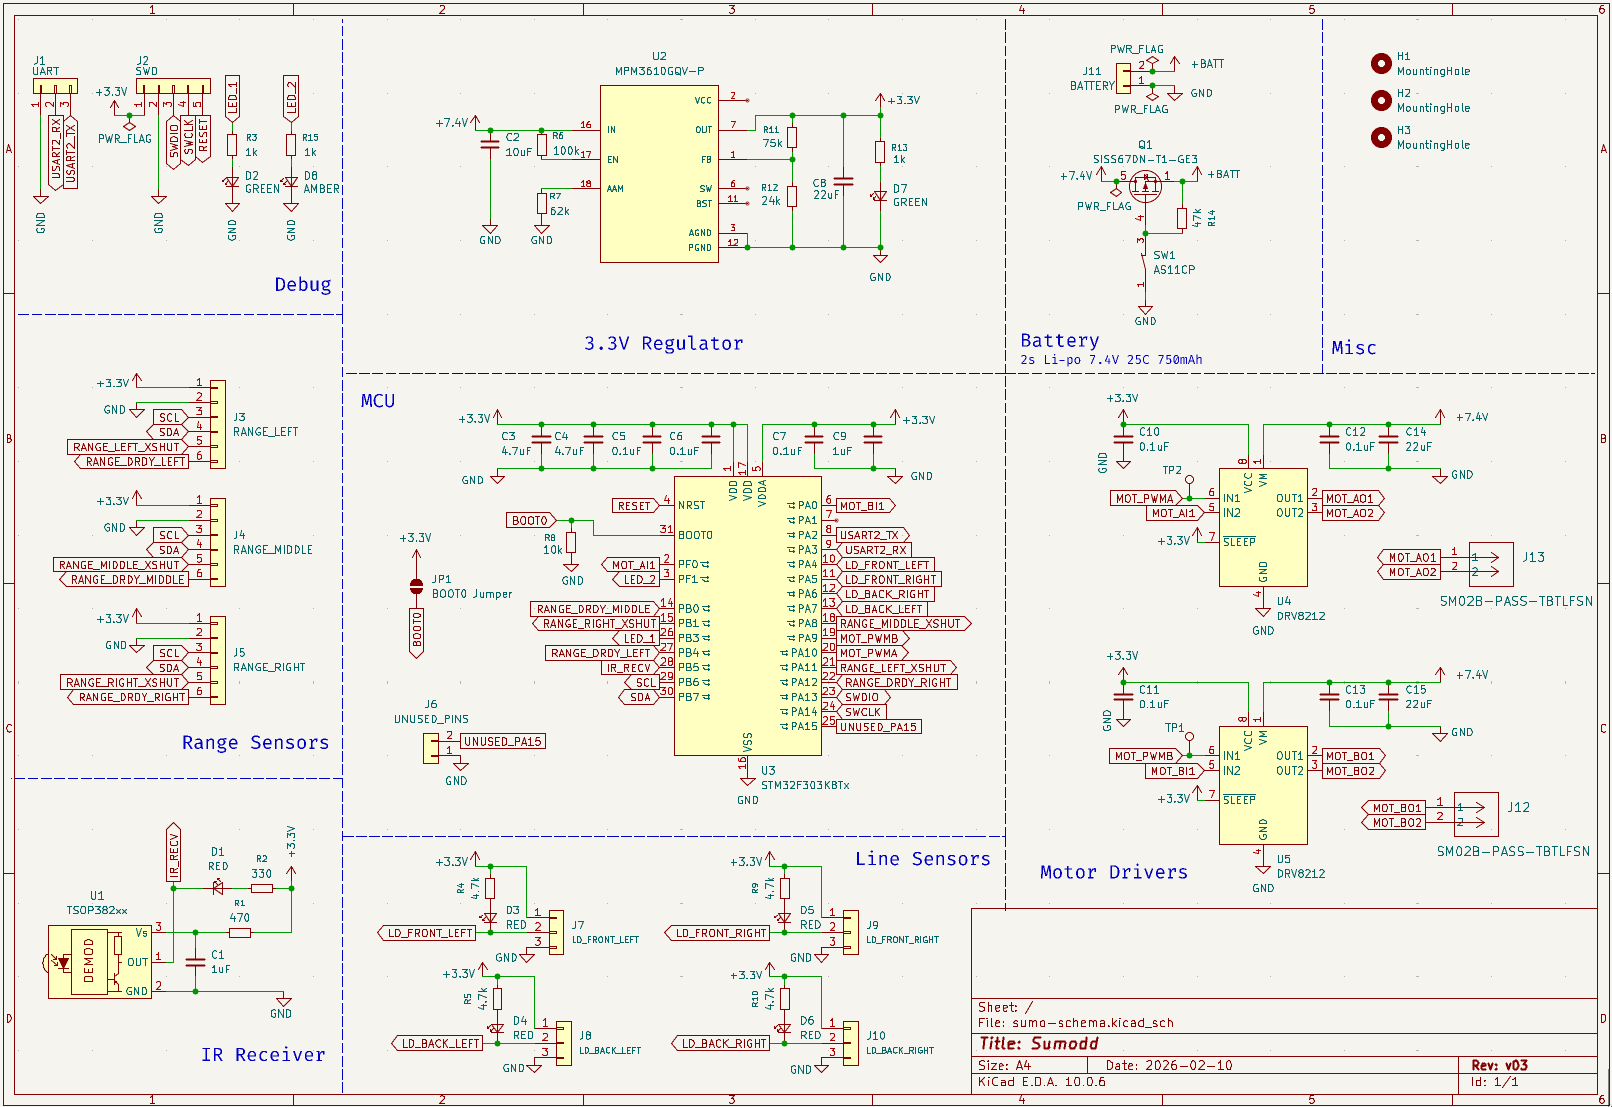
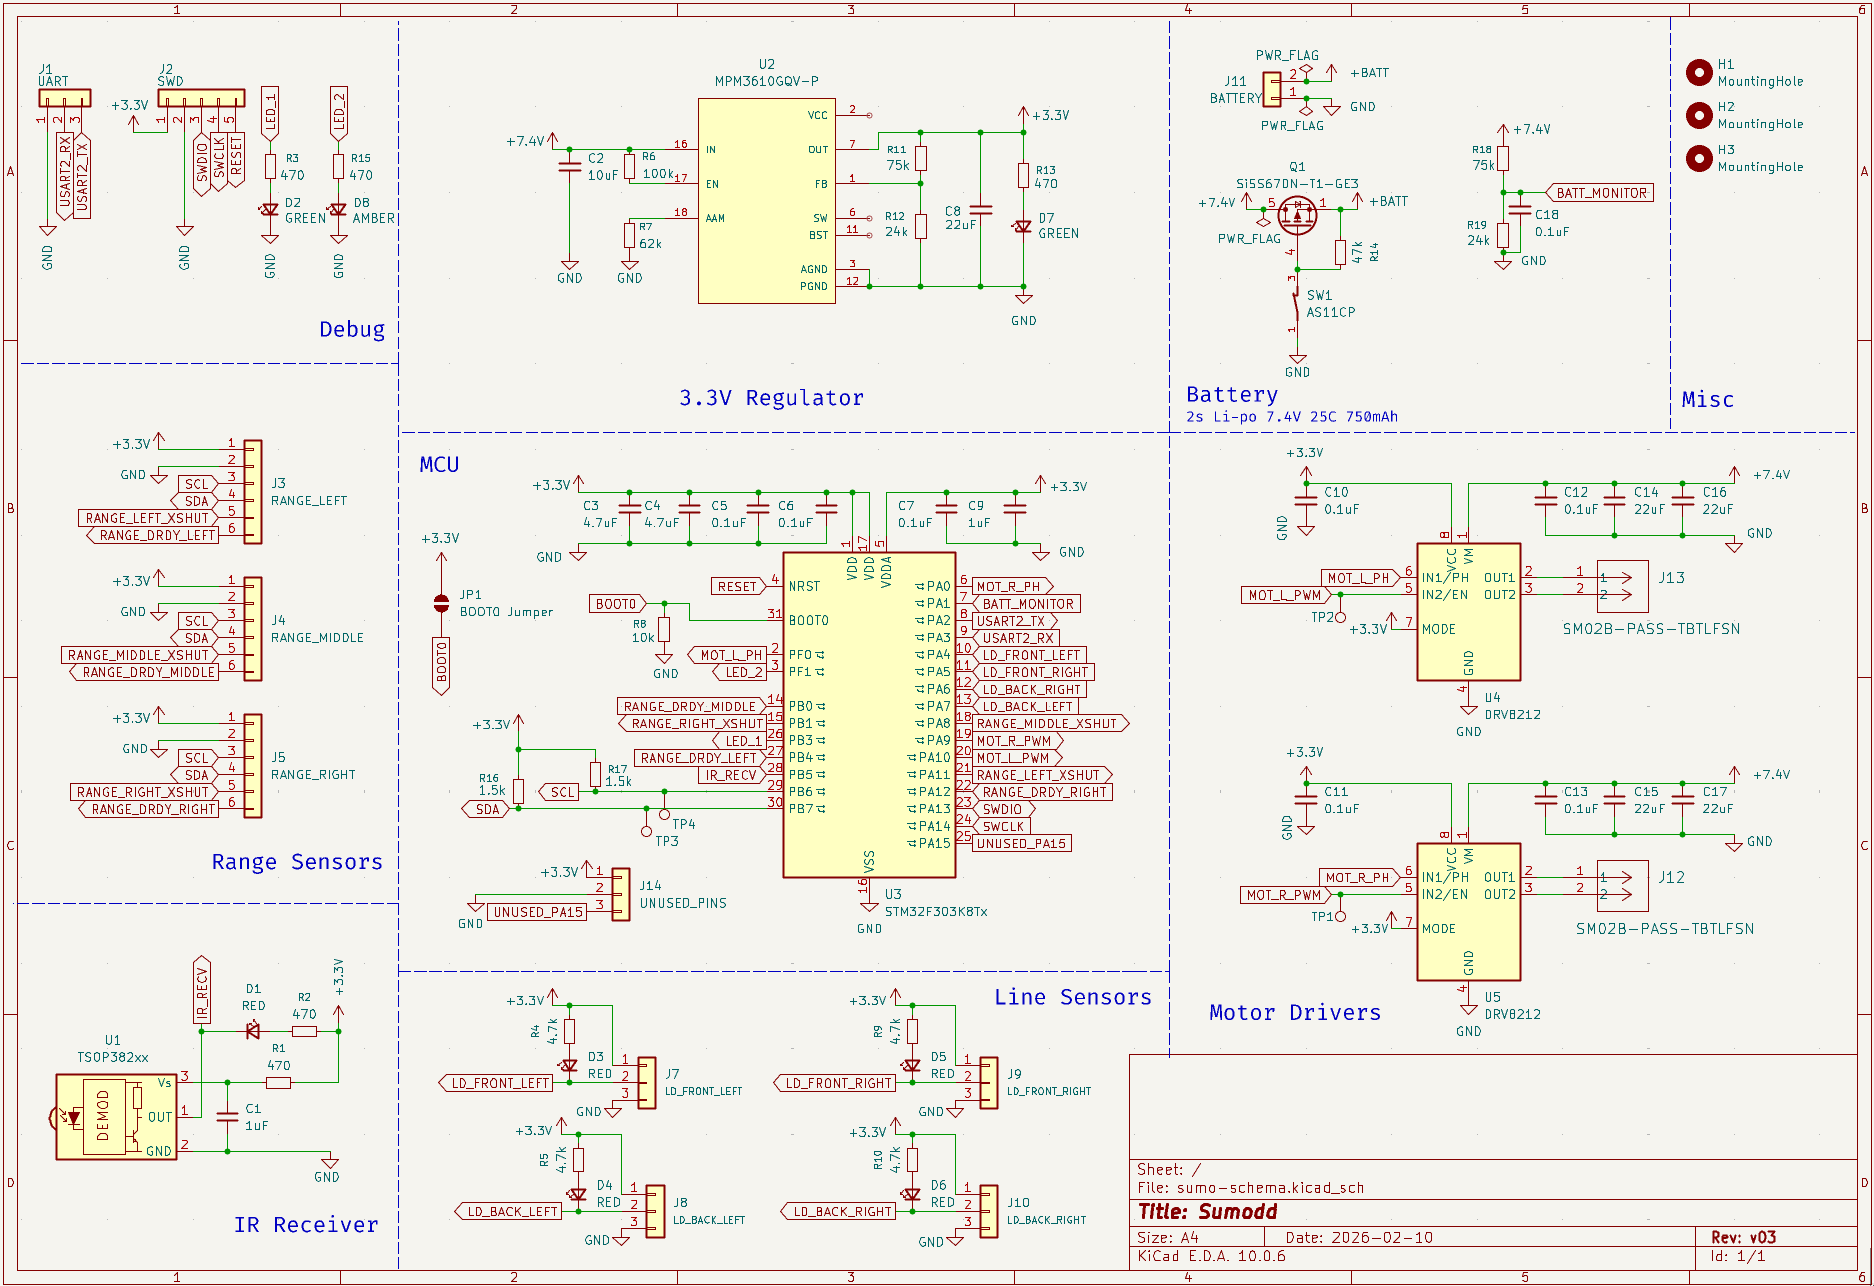
docs: update documentation with v0.3 parts and schematic image

diff --git a/README.md b/README.md
@@ -5,9 +5,10 @@ This repository holds the schematic and PCB layout files for the
 for the layout of the various components.
 
 When a new iteration of the PCB is manufactured, the latest included commit is tagged with a
-version number, e.g. `v0.2`.
+version number, e.g. `v0.3`. All parts are specified with Digikey part numbers, in the symbols
+`Part number` field.
 
-![Sumodd motherboard schematic](sumodd-schematic-v02.png)
+![Sumodd motherboard schematic](sumodd-schematic-v03.png)
 
 ## PCB stackup
 
@@ -18,15 +19,20 @@ The board has four copper layers, with a total thickness of 1.6mm.
 3. In2.Cu — 3.3V power plane
 4. B.Cu — signal routing overflow
 
-## Power
+# Power
 
 The PCB is powered by a 2s 7.4V, 25C, 800 mAh LIPO battery. This voltage is fed to a MOSFET
 transistor source, the gate of which is controlled by a SPST switch that connects the gate to 
 ground when closed, and a pullup resistor that connects the gate to source when opened. The
 transistor drain feeds a 7.4V power rail on the top layer, which connects directly to the motor
-driver VM input. However, the MCU and other components want a stable 3.3V, so we use a
-MPM3610AGQV-P buck converter configured to step down the battery input voltage, to feed the 3.3V
-power plane on the third layer.
+driver VM input.
+
+The MCU and other components want a stable 3.3V, so we use a MPM3610AGQV-P buck converter
+configured to step down the battery input voltage, to feed the 3.3V power plane on the third layer.
+
+To support the high current draw of the motor drivers, up to 2A continuous each, a [Molex Micro-Fit
+3.0](https://www.molex.com/en-us/products/part-detail/430450221) connector is used for the battery,
+which is rated for 8.5A.
 
 ### MPM3610 Synchronous Step-Down Converter
 
@@ -35,6 +41,8 @@ Datasheet: https://cdn-learn.adafruit.com/assets/assets/000/127/631/original/MPM
 The MPM3610 is implemented as documented in the typical applications sections of the datasheet,
 figure 12, to arrive at an output of 3.3V, while following the PCB layout guidelines in figure 10
 (screenshot below).
+
+### Layout 
 
 ![MPM3610 reference layout](mpm3610-reference-layout.png)
 
@@ -69,17 +77,40 @@ powered and supplying the 3.3V output.
 
 Note: the PGND, IN and OUT paths should have short, direct and wide traces.
 
+### Battery monitor
+
+To be able to monitor the battery voltage with the MCU, a resistor divider is used, with the tap of
+the divider connected to an ADC channel pin on the MCU. Furthermore, we place a 0.1uF ceramic cap
+from the tap to ground, to act as a low-pass filter.
+
+Since a 7.4V battery is used, which goes up to around 8.4V fully charged, the divider is important
+to ensure the MCU input stays within its 0 - 3.3V measurement range (Vref = VDDA on the
+STM32F303K8T6, which will be 3.3V), for accurate measurements, as well as within its maximum
+voltage rating, to avoid damaging the MCU. For more information see section 6.2 and 6.3 in the
+[MCU datasheet](#stm32f303k8t6).
+
+With a 75k R1 and a 24k R2, the divider ratio is `R2 / (R1 + R2) = 24k / 99k = 0.242`. With a fully
+charged battery at 8.4V, the ADC input pin will see a voltage way below its limit:
+`8.4 * 0.242 = 2.04`. If the battery power rail sees higher transient voltages, the divider gives
+us a lot of headroom, for example if the voltage goes all the way to 12V: `12 * 0.242 = 2.91V`. We
+could have used smaller resistors here, but these already existed in the BOM, they are also used
+for the buck converter.
+
+The voltage read in the ADC will then be converted back to the actual voltage of the battery in the
+MCU firmware.
+
+# Logic
+
 ## Microcontroller
 
-### STM32F303K8T6
+The microcontroller is an STM32F303K8T6 see datasheet:
+https://www.st.com/resource/en/datasheet/stm32f303c6.pdf
 
-Hardware development documentation (AN4206):
+And hardware development documentation (AN4206), which was used heavily when designing the layout:
 https://www.st.com/resource/en/application_note/an4206-getting-started-with-stm32f3-series-hardware-development-stmicroelectronics.pdf
 
-Datasheet: https://www.st.com/resource/en/datasheet/stm32f303c6.pdf
-
-The microcontroller takes its power from the 3.3V rail, supplied by the voltage regulator. It
-reads all the sensors, and controls the motors via the motor controllers.
+The microcontroller takes its power from the 3.3V power plane, supplied by the voltage regulator.
+It reads all the sensors, and controls the motors via the motor controllers.
 
 The hardware development documentation recommends:
 - A multilayer PCB with a separate layer dedicated to ground, and another layer detected to supply
@@ -96,7 +127,9 @@ can be done through software by configuring the pins as GPIO output.
 NOTE: for more detail, see the hardware development documentation section 5, where it also
 elaborates on which decoupling capacitors should be used and where.
 
-For support components, we don't use an external oscillator, so we just need decoupling capacitors.
+### Layout
+
+No external oscillator is used, so the only support components needed are decoupling capacitors.
 - For both VDD/VSS pairs, we have 4.7uF (X5R, 10V) and 0.1uF (X7R, 10V) ceramic 0805 decoupling capacitors.
     - NOTE: these should be placed as close as possible to the VDD/VSS pairs, with the smaller one
     right between them. See example of this in the AN4206 doc, section 5.4.
@@ -106,9 +139,13 @@ as close to the VDDA as possible,between VDDA and nearest VSS.
 On this MCU, the BOOT0 pin should not float, and to boot from flash you need to pull the BOOT0 pin low.
 Therefore, we pull it low with a 10k resistor by default, but we also add an open 2 pad solder jumper,
 so that we can bridge BOOT0 to 3v3 if we need to boot with a bootloader. For more details on that, see
-section 3 of AN4206.
+section 3 of AN4206. Furthermor, GPIO pins should not float, so unused pins should be pulled high
+or low with a resistor, or configured as GPIO output in the firmware. The latter is done for this
+project.
 
-## Motor Driver
+# Motor control
+
+## Motor Drivers
 
 https://www.ti.com/lit/ds/symlink/drv8212.pdf
 
@@ -128,9 +165,9 @@ For this application, the PH/EN interface will be used, which is enabled by pull
 high on startup. This is achieved with a pullup on the MODE pin. See datasheet section 8.3.2.2
 for more details, including a control truth table, 8-4.
 
-For the motor connectors, JST-PA is used, which supports up to 3A, with 22 AWG wires.
+### Layout 
 
-### Layout
+For the motor connectors, JST-PA is used, which supports up to 3A, with 22 AWG wires.
 
 The components are implemented as recommended in the typical application diagrams for the PH/EN
 interface motor driving, figure 9-4. The device is placed as recommended in the layout example
@@ -149,17 +186,18 @@ so the same is done here. Whether this is overkill can then be measured, and in 
 of the caps could be removed.
 
 All capacitors are placed as close to the device as possible, even the bulk capacitors, to minimize
-loop inductance.
+loop inductance. To support the high current draw of the motors,
+[JST-PA](https://www.jst-mfg.com/product/pdf/eng/ePA-F.pdf) connectors are used for the motor
+connectors, which are rated for 3A.
 
-
-## Sensors
+# Sensors
 
 The final robot will have four analog line sensors, one digital IR receiver and three digital
 time-of-flight distance sensors. All of them will connect to the 3.3V power rail supplied by
 the voltage regulator. They will not mount directly to the PCB, the PCB will only have connectors
 for them.
 
-### QRE1113 analog line sensors
+## QRE1113 analog line sensors
 
 Datasheet: https://cdn.sparkfun.com/datasheets/Sensors/Proximity/QRE1113.pdf
 Breakout board schematic: https://cdn.sparkfun.com/datasheets/Sensors/Infrared/QRE1113%20Line%20Sensor%20Breakout%20-%20Analog.pdf
@@ -182,7 +220,7 @@ preventing OUT from going lower than about 1.5V, significantly reducing the reso
 signal. With a 4.7k resistor, OUT goes down to ~180mV with strong reflection, and the LED still
 lights clearly.
 
-### TSOP38238 IR receiver
+## TSOP38238 IR receiver
 
 Datasheet: https://cdn.sparkfun.com/assets/c/8/5/c/8/tsop382.pdf
 
@@ -197,14 +235,19 @@ datasheet recommends a resistor that is 33 Ω < R1 < 1 kΩ.
 and then pulled low in pulses when receiving a signal, there will only be a voltage difference
 across the LED when a signal is received, giving us a visual indication when a signal is received.
 
-### VL53L0X Time-of-flight sensors
+## VL53L4CD Time-of-flight sensors
 
-Datasheet and documentation: https://www.st.com/en/imaging-and-photonics-solutions/vl53l0x.html#documentation
+Datasheet and documentation: https://www.st.com/resource/en/datasheet/vl53l4cd.pdf
 
-For the time-of-flight ranging sensors, we simply have one 6 pin connector for each on the
-motherboard. It has pins for 3.3V input, GND, I2C SDA and SCL, as well as a DRDY GPIO external
-interrupt input which the sensor pulls low when data is ready, and an XSHUT pin, which we can use
-to reprogram the I2C address of the sensors, allowing us to run three on the same I2C bus.
+The VL53L4CD sensors are placed on custom daughterboards, which can be connected to the motherboard
+with 6 pin JST-GH connectors, and communicated with over I2C. Since three ranging sensors are used,
+three JST-GH connectors are placed on the motherboard.
 
-I2C pullup and series resistors are placed on the Adafruit breakout boards we use for the sensors:
-https://www.adafruit.com/product/3317.
+The pins are 3.3V input, GND, I2C SDA and SCL, as well as a DRDY GPIO external interrupt input
+which the sensor pulls low when data is ready, and an XSHUT pin, which we can use to reprogram
+the I2C address of the sensors, allowing us to run three on the same I2C bus.
+
+I2C series resistors are placed on the custom VL53L4CD daughterboards, and the I2C pullups are
+placed once on the motherboard, as recommended in the VL53L4CD datasheet, section 1.4. The pullup and
+series resistor values are chosen from the datasheet recommendations, table 4, to support I2C fast
+mode plus, which is 1MHz I2C.
